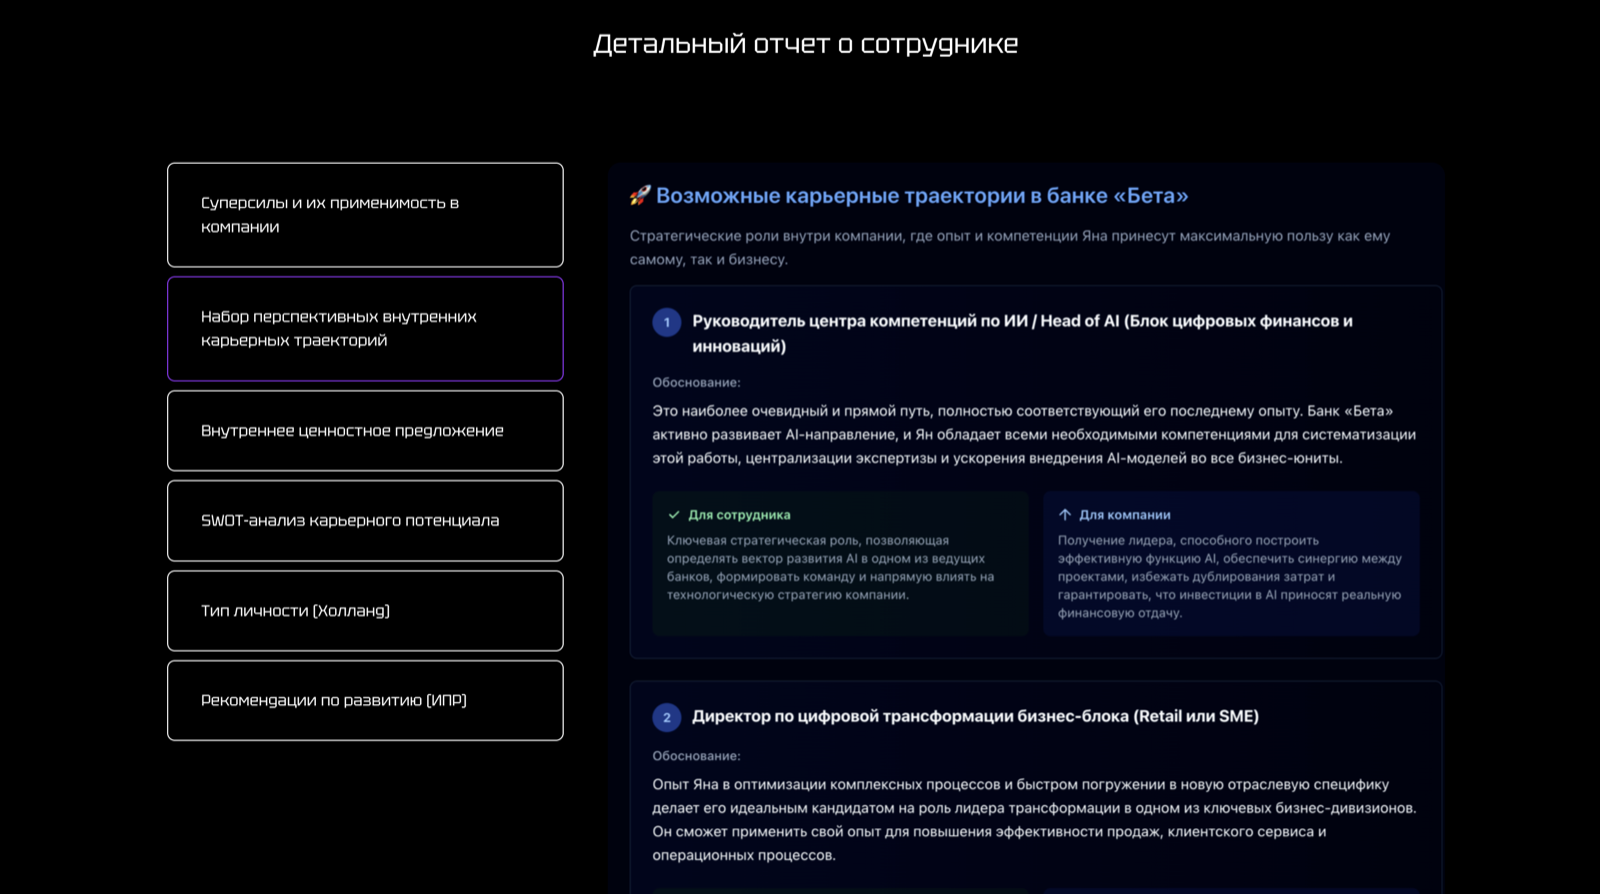
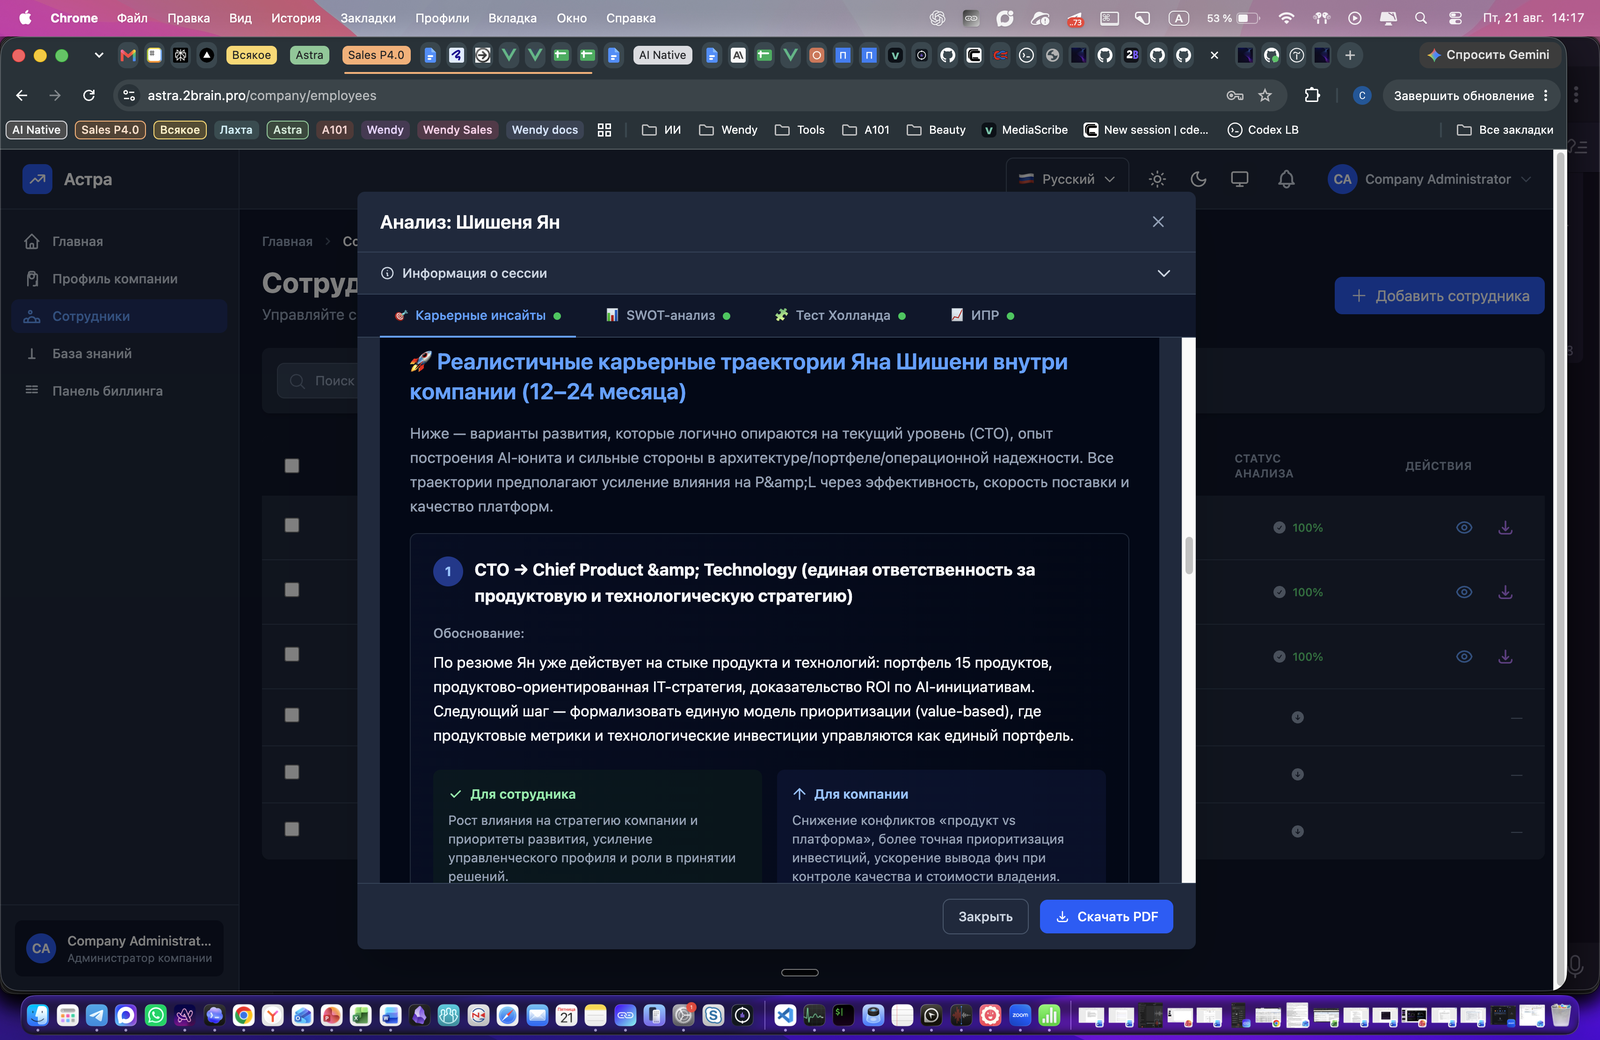
design: update Astra product screenshot

diff --git a/site/index.html b/site/index.html
@@ -270,7 +270,7 @@
           <div class="product-dialog-media">
             <div class="product-visual product-shot visual-airis" data-product-visual="airis"><img src="assets/images/airis-chats-neutral.png?v=80" width="2122" height="1566" loading="lazy" decoding="async" alt="Интерфейс AIRIS с историей рабочих чатов и выбором ведущих ИИ-моделей" /></div>
             <div class="product-visual visual-graf" data-product-visual="graf"><img src="assets/images/graf-transcript.png" width="1600" height="1000" loading="lazy" decoding="async" alt="Интерфейс расшифровки встречи в ГРАФ" /></div>
-            <div class="product-visual product-shot visual-astra" data-product-visual="astra"><img src="assets/images/astra-report.png" width="1600" height="894" loading="lazy" decoding="async" alt="Детальный карьерный отчёт Астры" /></div>
+            <div class="product-visual product-shot visual-astra" data-product-visual="astra"><img src="assets/images/astra-report.png" width="1600" height="1040" loading="lazy" decoding="async" alt="Детальный карьерный отчёт Астры" /></div>
             <div class="product-visual product-shot visual-tutor" data-product-visual="tutor"><img src="assets/images/tutor-dashboard.png" width="1600" height="1071" loading="lazy" decoding="async" alt="Дашборд активных учебных курсов Tutor" /></div>
           </div>
           <div class="product-dialog-copy"><h2 id="product-dialog-title" data-product-title></h2><p class="product-dialog-description" data-product-description></p><ul data-product-points></ul><a class="button button-primary product-dialog-link" data-product-link target="_blank" rel="noopener"><span data-product-link-label>Перейти на сайт</span><span>↗</span></a></div>
